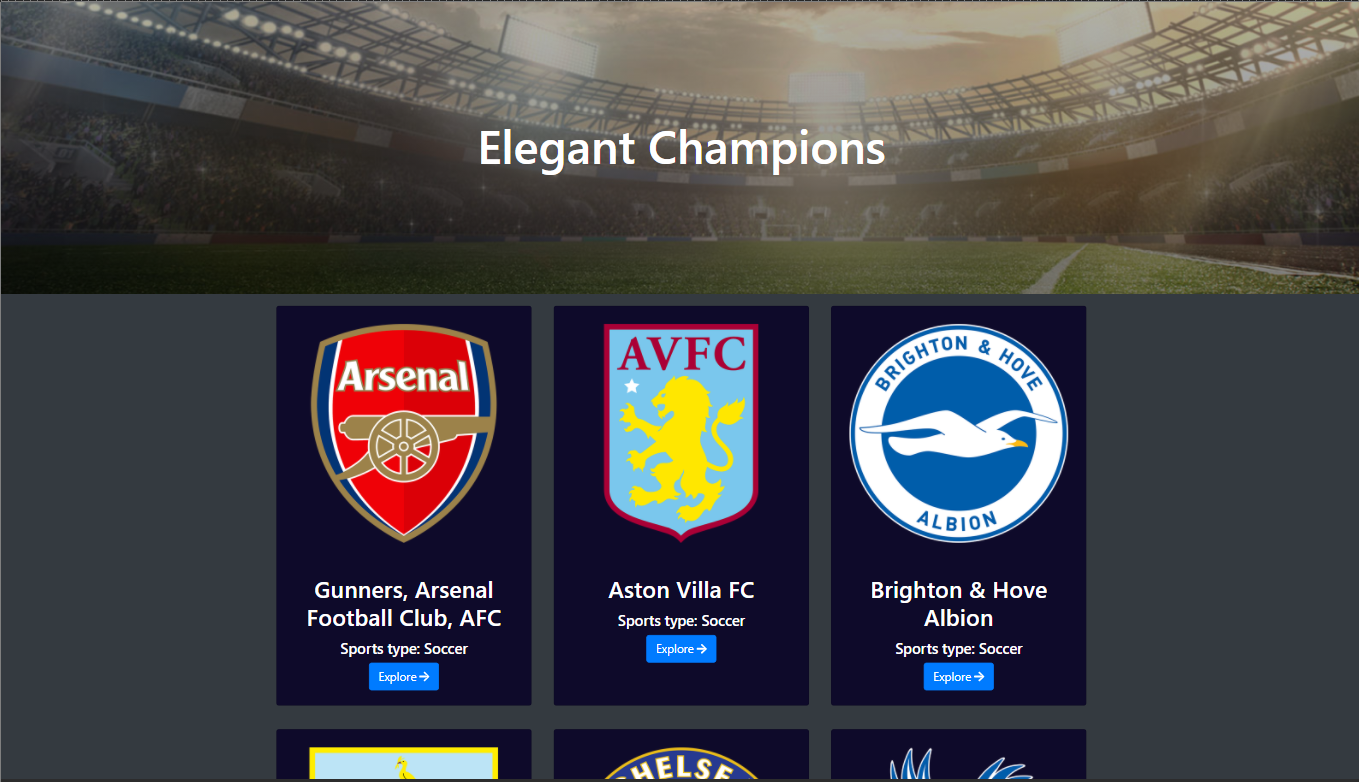
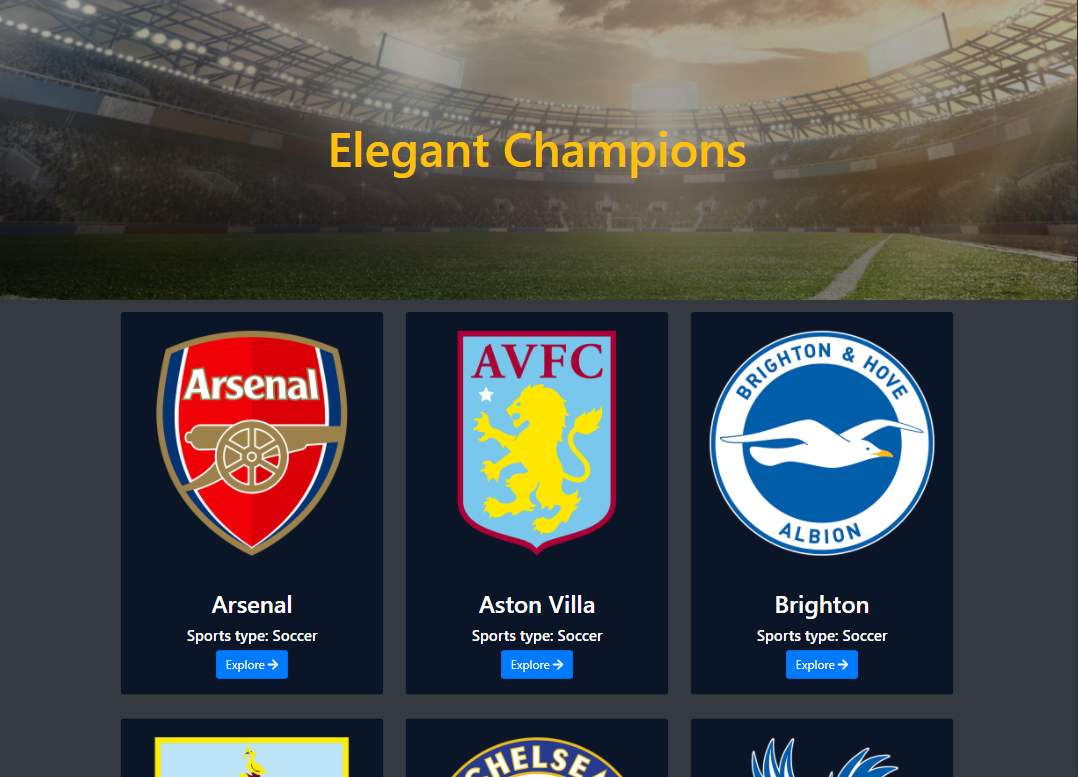
done

diff --git a/src/componentes/TeamDetails/TeamDetails.js b/src/componentes/TeamDetails/TeamDetails.js
@@ -13,12 +13,16 @@ const TeamDetails = () => {
     const { idTeam } = useParams();
     const [team, setTeam] = useState([])
     useEffect(() => {
-        fetch(`https://www.thesportsdb.com/api/v1/json/1/lookupteam.php?id=${idTeam}`)
-            .then(res => res.json())
-            .then(data => setTeam(data.teams[0]))
+        const url = `https://www.thesportsdb.com/api/v1/json/1/lookupteam.php?id=${idTeam}`;
+        const fetchData = async () => {
+            const res = await fetch(url)
+            const data = await res.json()
+            return data;
+        }
+        fetchData().then(data => setTeam(data.teams[0]));
     }, [idTeam])
 
-    const { strAlternate, strTeamBadge, strGender, strDescriptionEN, strCountry, strSport, strStadiumDescription, strInstagram, strFacebook, strTwitter, strYoutube, intFormedYear, strStadiumThumb } = team
+    const { strTeam, strTeamBadge, strGender, strDescriptionEN, strCountry, strSport, strStadiumDescription, strInstagram, strFacebook, strTwitter, strYoutube, intFormedYear, strStadiumThumb } = team;
 
     //banner style
     const bannerStyle = {
@@ -28,22 +32,23 @@ const TeamDetails = () => {
         backgroundImage: `linear-gradient(0deg, rgb(206 203 203 / 50%), rgb(247 246 246 / 30%)), url(${strStadiumThumb})`,
         height: '25em',
     }
+
     //conditional bg
     let bgColor;
-    strGender === 'Male' ? bgColor = { backgroundColor: "#3A42FF", borderRadius: "1em" } : bgColor = { backgroundColor: "#FC4D57" }
+    strGender === 'Male' ? bgColor = { backgroundColor: "#0A1527", borderRadius: "1em" } : bgColor = { backgroundColor: "#FC4D57", borderRadius: "1em" }
     return (
         <>
             <div className='container-fluid d-flex align-items-center justify-content-center' style={bannerStyle}>
-                <img className='img-fluid' style={{ maxWidth: '300px' }} src={strTeamBadge} alt={strAlternate} />
+                <img className='img-fluid' style={{ maxWidth: '300px' }} src={strTeamBadge} alt={strTeam} />
             </div>
-            <div className="container-fluid" style={{ backgroundColor: "#0E0A2A" }}>
+            <div className="container-fluid bg-dark">
                 <div className='container text-white py-3'>
-                    <Link className='text-decoration-none' to="/"><h1> <FontAwesomeIcon icon={faChevronCircleLeft} size="1x" /> Home</h1></Link>
+                    <Link className='text-decoration-none text-warning' to="/teams"><h1><FontAwesomeIcon icon={faChevronCircleLeft} size="1x" /> Home</h1></Link>
                     <div className="container my-2 p-3">
                         <div className="row mb-4 p-3" style={bgColor}>
                             <div className="col-md-6">
-                                <div className="card-body text-white">
-                                    <h1 className="card-title">{strAlternate}</h1>
+                                <div className="card-body text-warning">
+                                    <h1 className="card-title">{strTeam}</h1>
                                     <h5 className="card-title"><FontAwesomeIcon icon={faMapMarkerAlt} size="1x" /> Founded: {intFormedYear}</h5>
                                     <h5 className="card-title"><FontAwesomeIcon icon={faFlag} size="1x" /> Country: {strCountry}</h5>
                                     <h5 className="card-title"><FontAwesomeIcon icon={faFutbol} size="1x" /> Sport Type: {strSport}</h5>
@@ -52,7 +57,7 @@ const TeamDetails = () => {
                             </div>
                             <div className="col-md-6">
                                 {
-                                    strGender === 'Male' ? <img className="img-fluid" src={maleImg} alt="" /> : <img className="img-fluid" src={femaleImg} alt="" />
+                                    strGender === 'Male' ? <img className="img-fluid" src={maleImg} alt={strTeam} /> : <img className="img-fluid" src={femaleImg} alt={strTeam} />
                                 }
                             </div>
                         </div>
@@ -61,10 +66,10 @@ const TeamDetails = () => {
                         <p className="card-text">Stadium Description : {strStadiumDescription}</p>
                     </div>
                     <div className="d-flex justify-content-center text-decoration-none">
-                        <a className='text-white m-2' href={`https://${strFacebook}`} rel="noreferrer" target="_blank"><FontAwesomeIcon icon={faFacebook} size="2x" /></a>
-                        <a className='text-white m-2' href={`https://${strTwitter}`} rel="noreferrer" target="_blank"><FontAwesomeIcon icon={faTwitter} size="2x" /></a>
-                        <a className='text-white m-2' href={`https://${strYoutube}`} rel="noreferrer" target="_blank"><FontAwesomeIcon icon={faYoutube} size="2x" /></a>
-                        <a className='text-white m-2' href={`https://${strInstagram}`} rel="noreferrer" target="_blank"><FontAwesomeIcon icon={faInstagram} size="2x" /></a>
+                        <a className='text-primaray m-2' href={`https://${strFacebook}`} rel="noreferrer" target="_blank"><FontAwesomeIcon icon={faFacebook} size="2x" /></a>
+                        <a className='text-danger m-2' href={`https://${strYoutube}`} rel="noreferrer" target="_blank"><FontAwesomeIcon icon={faYoutube} size="2x" /></a>
+                        <a className='text-primaray m-2' href={`https://${strTwitter}`} rel="noreferrer" target="_blank"><FontAwesomeIcon icon={faTwitter} size="2x" /></a>
+                        <a className='text-warning m-2' href={`https://${strInstagram}`} rel="noreferrer" target="_blank"><FontAwesomeIcon icon={faInstagram} size="2x" /></a>
                     </div>
                 </div>
             </div>

diff --git a/src/componentes/Team/Team.js b/src/componentes/Team/Team.js
@@ -4,20 +4,20 @@ import React from 'react';
 import { Link, useHistory } from 'react-router-dom';
 
 const Team = (props) => {
-    const { strTeamBadge, strAlternate, strSport, idTeam } = props.team
+    const { strTeamBadge, strSport, idTeam, strTeam } = props.team
     const history = useHistory();
     return (
         <div className='col-lg-4 col-md-6 col-sm-12 text-center my-3'>
-            <Link className='text-decoration-none' to={`/team/${idTeam}`}>
-                <div style={{backgroundColor:"#0E0A2A"}} className="card h-100 text-white">
-                    <img src={strTeamBadge} className="card-img-top p-4" alt={strAlternate} />
+            <div style={{ backgroundColor: "#0A1527" }} className="card h-100">
+                <Link className='text-decoration-none text-white' to={`/team/${idTeam}`}>
+                    <img src={strTeamBadge} className="card-img-top p-4" alt={strTeam} />
                     <div className="card-body">
-                        <h2 className="card-title fs-1">{strAlternate}</h2>
+                        <h2 className="card-title">{strTeam}</h2>
                         <h5 className="card-text">Sports type: {strSport}</h5>
-                        <button className="btn btn-primary" onClick={() => history.push(`/team/${idTeam}`)}>Explore <FontAwesomeIcon icon={faArrowRight} /></button>
                     </div>
-                </div>
-            </Link>
+                </Link>
+                <button className="btn btn-warning rounded-0" onClick={() => history.push(`/team/${idTeam}`)}> <h5> Explore <FontAwesomeIcon icon={faArrowRight} /> </h5></button>
+            </div>
         </div >
 
     );

diff --git a/src/componentes/Teams/Teams.js b/src/componentes/Teams/Teams.js
@@ -4,9 +4,13 @@ import Team from '../Team/Team';
 const Teams = () => {
     const [teams, setTeams] = useState([])
     useEffect(() => {
-        fetch('https://www.thesportsdb.com/api/v1/json/1/search_all_teams.php?l=English%20Premier%20League')
-            .then(res => res.json())
-            .then(data => setTeams(data.teams))
+        const url = 'https://www.thesportsdb.com/api/v1/json/1/search_all_teams.php?l=English%20Premier%20League';
+        const fetchData = async () => {
+            const res = await fetch(url)
+            const data = await res.json()
+            return data;
+        }
+        fetchData().then(data => setTeams(data.teams))
     }, [])
     return (
         <div className='container-fuild bg-dark'>

diff --git a/src/componentes/TopBanner/TopBanner.js b/src/componentes/TopBanner/TopBanner.js
@@ -3,14 +3,14 @@ import banner from '../../images/banner.png'
 const TopBanner = () => {
     const bannerStyle = {
         backgroundImage: `linear-gradient(0deg, rgba(0, 0, 0, 0.5), rgba(0, 0, 0, 0.3)), url(${banner})`,
-        height: '25em',
+        height: '22.5em',
         backgroundRepeat: 'no-repeat',
         backgroundSize: 'cover',
         backgroundPosition: 'center center',
     }
     return (
         <div className='container-fluid d-flex align-items-center justify-content-center' style={bannerStyle}>
-            <h1 className='text-white' style={{ fontSize: '4rem' }}>Elegant Champions</h1>
+            <h1 className='text-warning' style={{ fontSize: '4rem' }}>Elegant Champions</h1>
         </div>
     );
 };

diff --git a/README.md b/README.md
@@ -16,7 +16,7 @@
 * You come back from the detail page with the Home button
 
 
-### Check out the awesome site
+### Check out the 
 [Visit Site](https://elegant-champions.netlify.app/)
 
 ## Home page!
